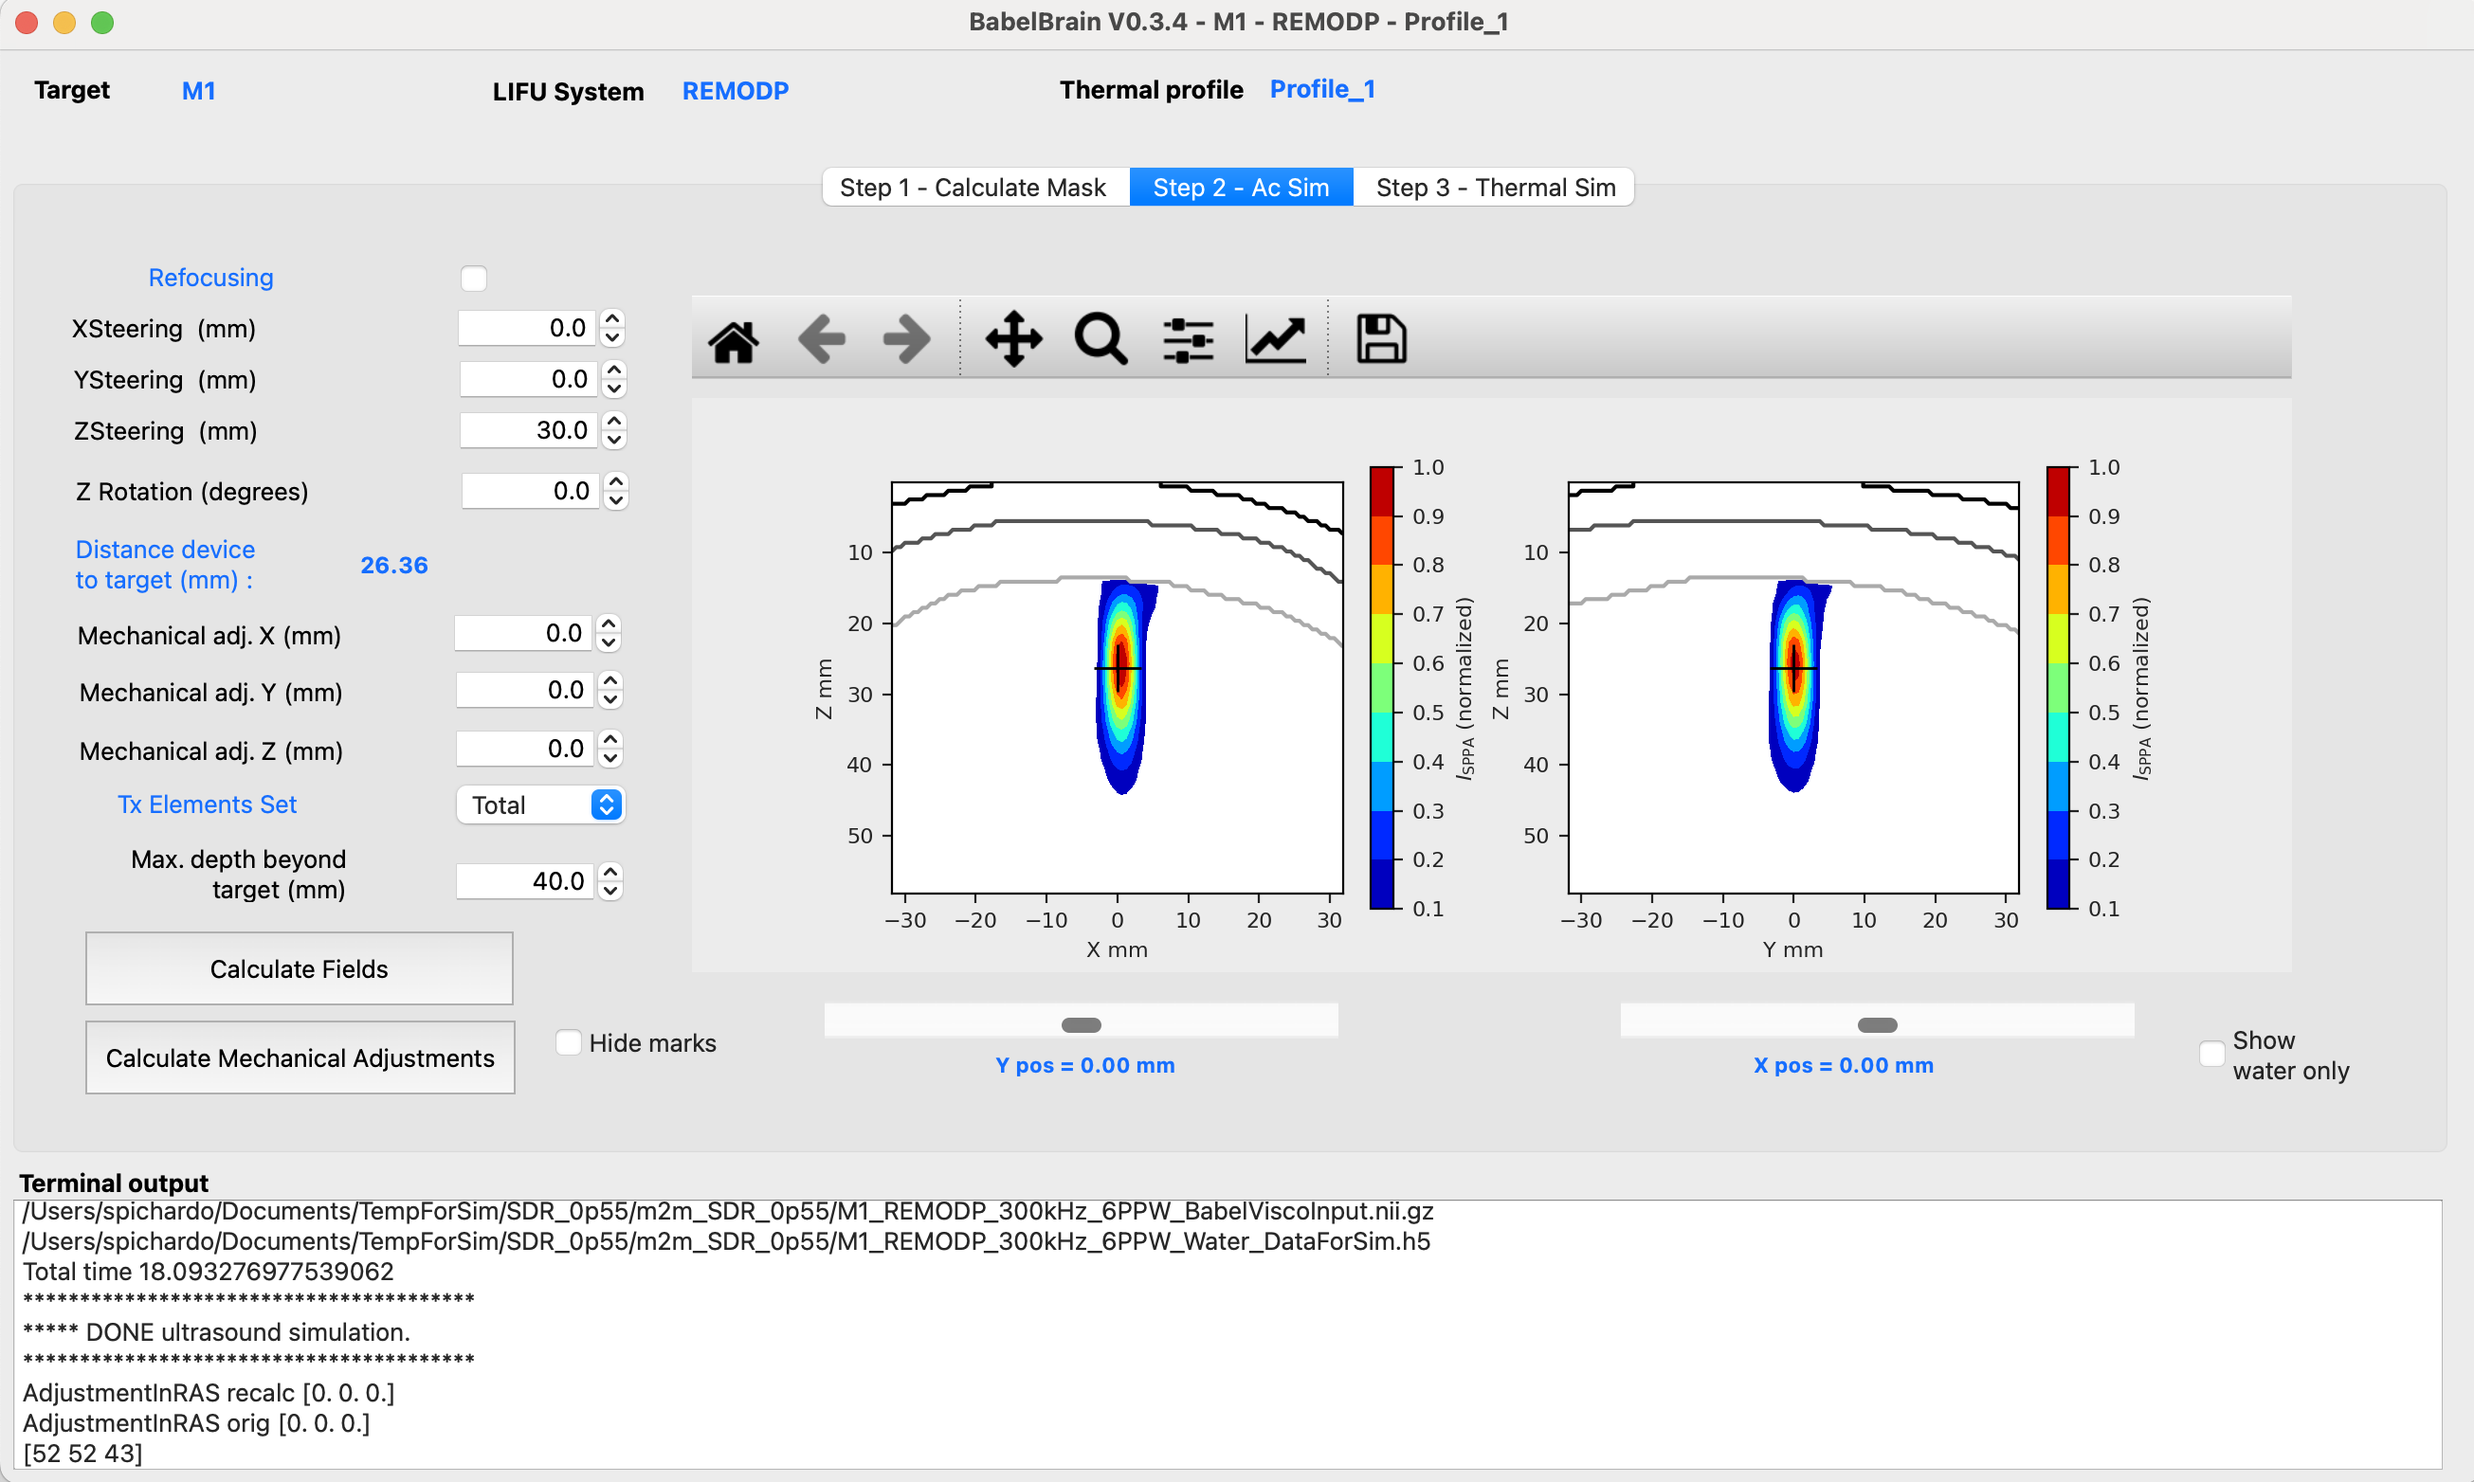
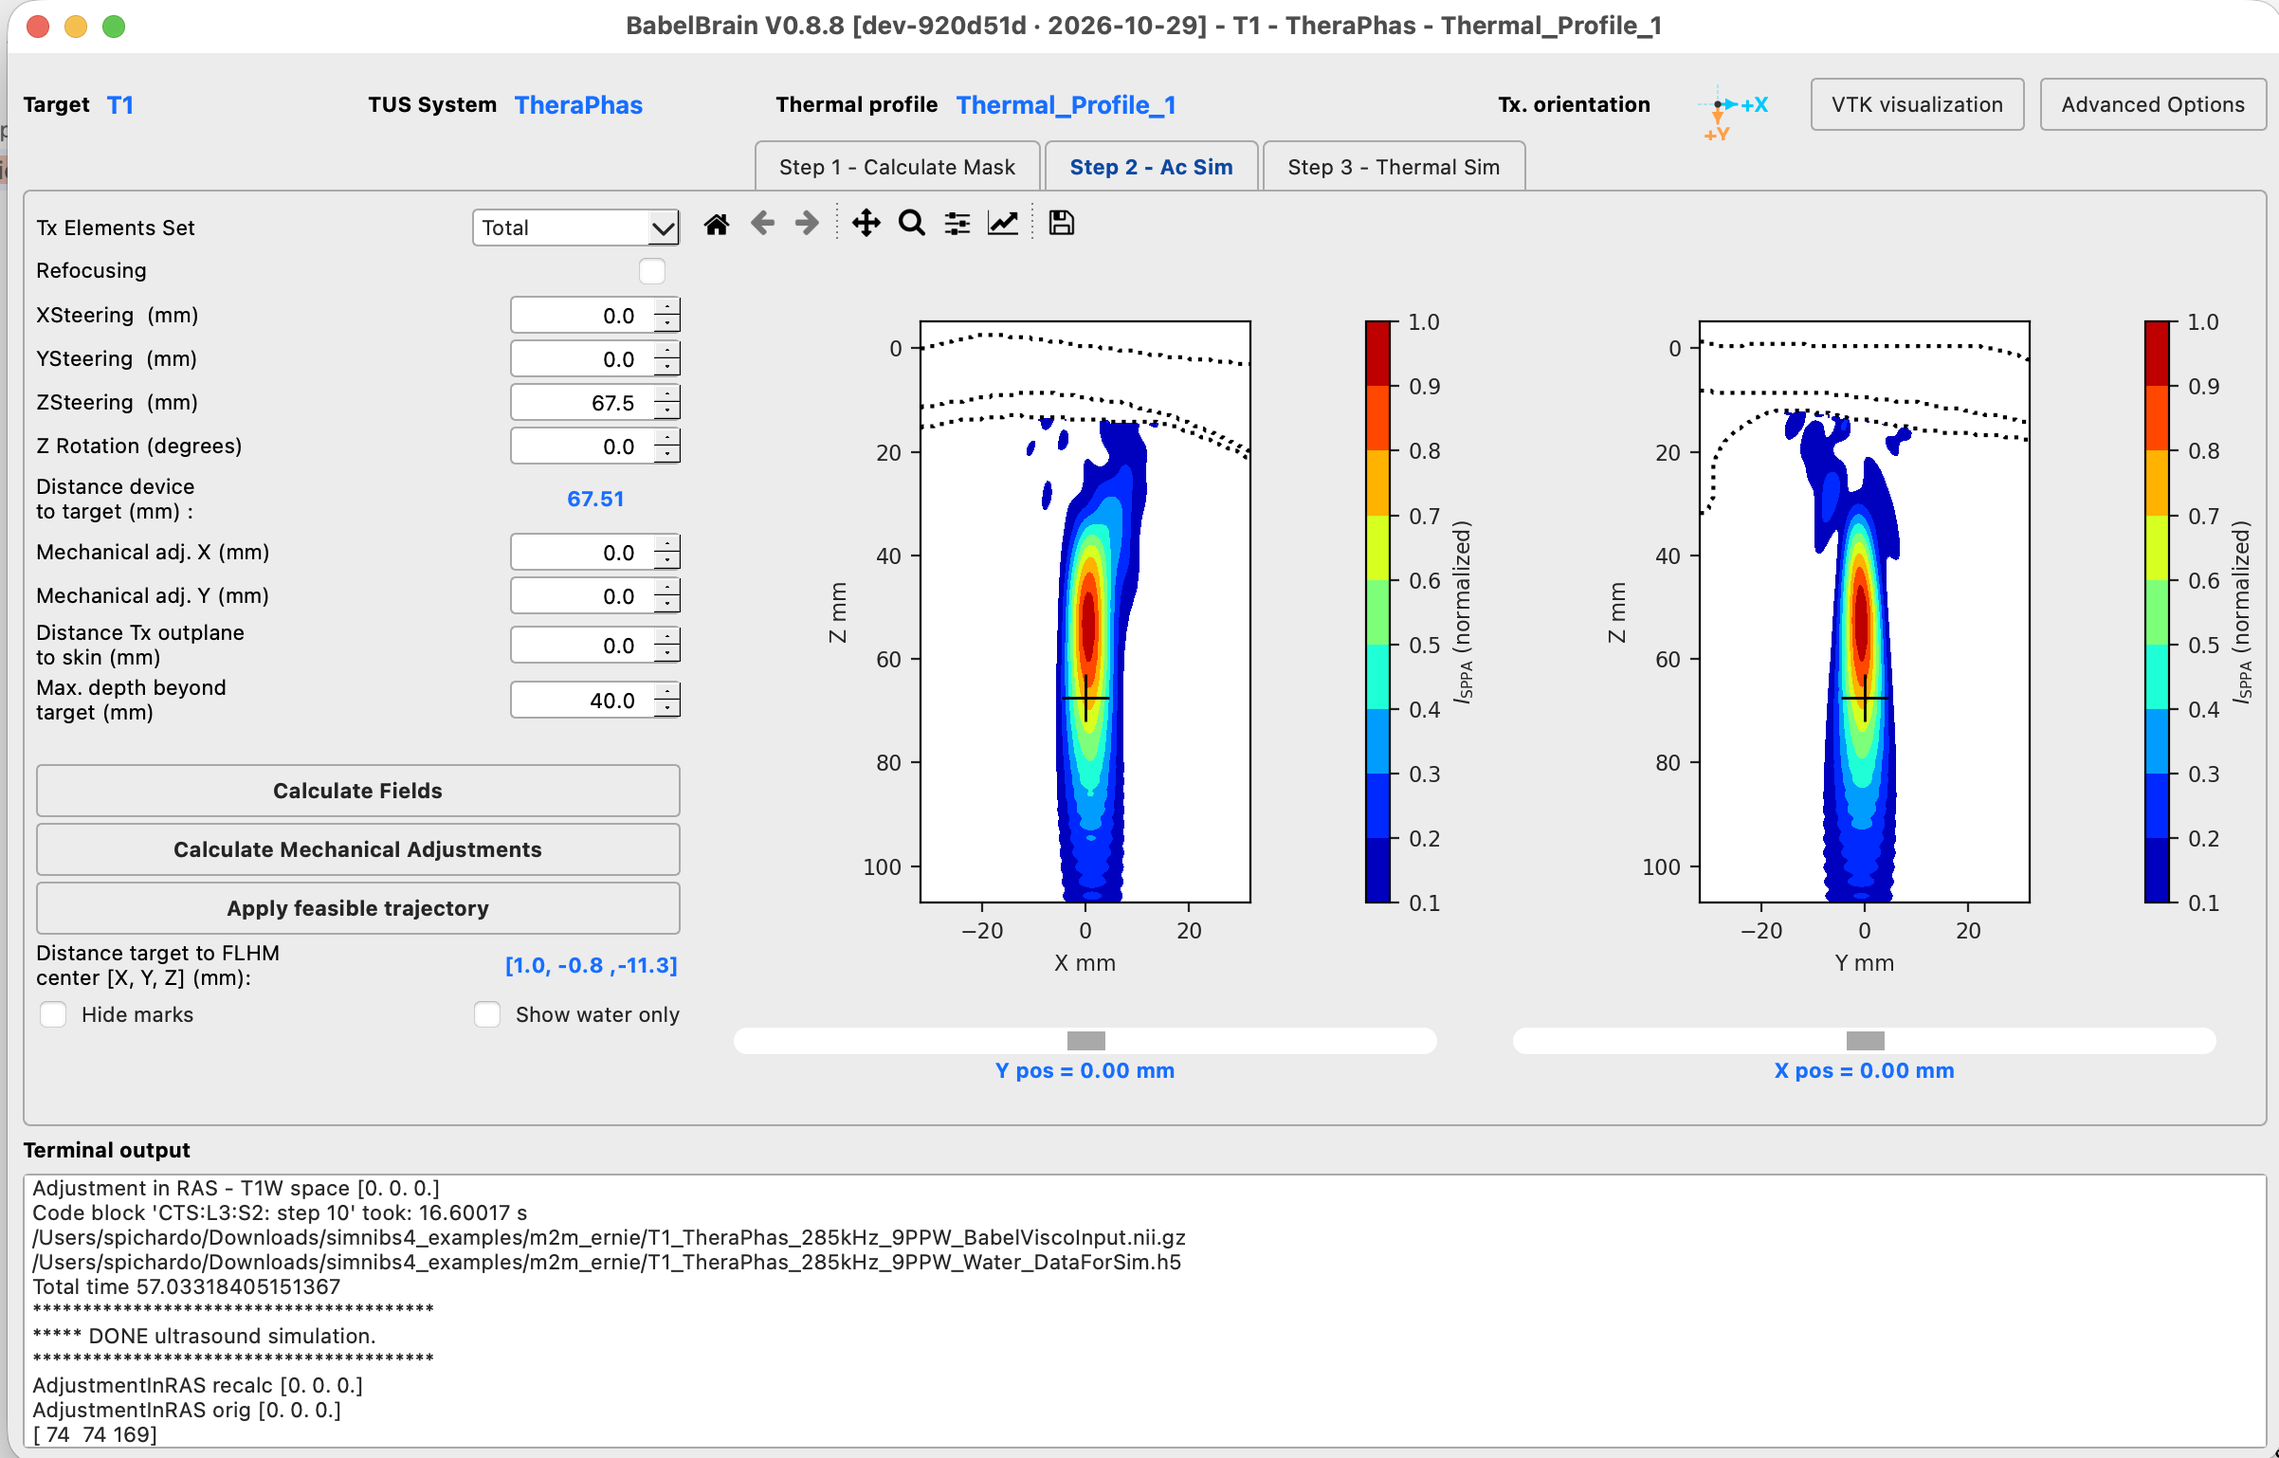
Add sibling-page TOCs to docs sidebar
Zensical only exposes the TOC of the active page, so other pages in a nav section showed only their titles. Add gen_page_tocs.py, which parses each nav page with the configured Markdown extensions and generates overrides/partials/page-tocs.html. nav-item.html now calls that macro to list headings for non-active pages.

The Makefile runs the generator before `serve` and `build`. Also limit toc_depth to 3 in mkdocs.yml.

Docs content updates: rename REMOPD to TheraPhase (with a new image), document the Apply Feasible Trajectory action, and drop numeric prefixes from the headings in results.md.

diff --git a/docs/overrides/partials/nav-item.html b/docs/overrides/partials/nav-item.html
@@ -2,6 +2,8 @@
   BabelBrain override of zensical_ui partials/nav-item.html (zensical 0.0.74).
   Change vs. upstream: only drop the top H1 from the page TOC when it is the
   ONLY H1; pages with several '#' headings keep all of them (and children).
+  Also: non-active pages list their headings too, from the generated
+  partials/page-tocs.html (see gen_page_tocs.py).
 -#}
 {% macro render_status(nav_item, type) %}
   {% set class = "md-status md-status--" ~ type %}
@@ -163,10 +165,13 @@
       {% endif %}
     </li>
   {% else %}
+    {% import "partials/page-tocs.html" as page_tocs %}
     <li class="{{ class }}">
       <a href="{{ nav_item.url | url }}" class="md-nav__link">
         {{ render_content(nav_item) }}
       </a>
+      {#- BabelBrain: also list the headings of non-active pages (generated) -#}
+      {{ page_tocs.render(nav_item.url, nav_item.url | url) }}
     </li>
   {% endif %}
 {% endmacro %}

diff --git a/docs/gen_page_tocs.py b/docs/gen_page_tocs.py
@@ -1,0 +1,126 @@
+"""Generate overrides/partials/page-tocs.html for the BabelBrain docs.
+
+Zensical only gives the theme the table of contents (TOC) of the page being
+viewed, so in the left panel the other pages of a section show just their
+title. This script parses every page listed in `nav` of mkdocs.yml with the
+same Markdown extensions Zensical uses, extracts its headings, and writes a
+Jinja macro with each page's TOC pre-rendered. overrides/partials/nav-item.html
+calls that macro so every page of a section shows its headings.
+
+Run automatically by `make build` / `make serve`; run it by hand
+(`python gen_page_tocs.py`) after editing headings while `make serve` is up.
+"""
+
+import html
+from pathlib import Path
+
+import markdown
+import yaml
+
+ROOT = Path(__file__).resolve().parent
+CONFIG = ROOT / "mkdocs.yml"
+OUTPUT = ROOT / "overrides" / "partials" / "page-tocs.html"
+
+
+class _Loader(yaml.SafeLoader):
+    """SafeLoader that tolerates !!python/name tags sometimes used in mkdocs.yml."""
+
+
+_Loader.add_multi_constructor("tag:yaml.org,2002:python/", lambda *a: None)
+
+
+def nav_files(items):
+    for item in items or []:
+        value = next(iter(item.values())) if isinstance(item, dict) else item
+        if isinstance(value, list):
+            yield from nav_files(value)
+        elif isinstance(value, str) and value.endswith(".md"):
+            yield value
+
+
+def markdown_extensions(config):
+    names, configs = [], {}
+    for ext in config.get("markdown_extensions", []):
+        if isinstance(ext, dict):
+            (name, opts), = ext.items()
+            names.append(name)
+            configs[name] = opts or {}
+        else:
+            names.append(ext)
+    return names, configs
+
+
+def page_url(src, use_directory_urls):
+    stem = src[: -len(".md")]
+    if not use_directory_urls:
+        return stem + ".html"
+    if stem == "index" or stem.endswith("/index"):
+        return stem[: -len("index")]
+    return stem + "/"
+
+
+def text(s):
+    # escape for HTML and neutralise Jinja delimiters
+    return html.escape(html.unescape(s)).replace("{", "&#123;").replace("}", "&#125;")
+
+
+def render_items(tokens, indent="  "):
+    out = []
+    for t in tokens:
+        out.append(f'{indent}<li class="md-nav__item">')
+        out.append(f'{indent}  <a href="{{{{ prefix }}}}#{t["id"]}" class="md-nav__link">'
+                   f'<span class="md-ellipsis"><span class="md-typeset">{text(t["name"])}'
+                   f"</span></span></a>")
+        if t["children"]:
+            out.append(f'{indent}  <nav class="md-nav" aria-label="{text(t["name"])}">')
+            out.append(f'{indent}    <ul class="md-nav__list">')
+            out.extend(render_items(t["children"], indent + "      "))
+            out.append(f"{indent}    </ul>")
+            out.append(f"{indent}  </nav>")
+        out.append(f"{indent}</li>")
+    return out
+
+
+def main():
+    config = yaml.load(CONFIG.read_text(encoding="utf-8"), Loader=_Loader)
+    docs_dir = ROOT / config.get("docs_dir", "docs")
+    use_dir_urls = config.get("use_directory_urls", True)
+    names, configs = markdown_extensions(config)
+
+    blocks = []
+    for src in dict.fromkeys(nav_files(config.get("nav"))):
+        path = docs_dir / src
+        if not path.exists():
+            continue
+        md = markdown.Markdown(extensions=names, extension_configs=configs)
+        md.convert(path.read_text(encoding="utf-8"))
+        toc = md.toc_tokens
+        # same rule as overrides/partials/toc.html: a single top H1 is the
+        # page title, so show its children; several H1s are all kept
+        if len(toc) == 1 and toc[0]["level"] == 1:
+            toc = toc[0]["children"]
+        if not toc:
+            continue
+        key = page_url(src, use_dir_urls)
+        blocks.append((key, render_items(toc, "      ")))
+
+    lines = [
+        "{#- GENERATED by gen_page_tocs.py from mkdocs.yml - do not edit by hand -#}",
+        "{% macro render(key, prefix) %}",
+    ]
+    for i, (key, items) in enumerate(blocks):
+        lines.append(f'{"{% if" if i == 0 else "{% elif"} key == "{key}" %}}')
+        lines.append('  <nav class="md-nav md-nav--secondary md-nav--sibling-toc">')
+        lines.append('    <ul class="md-nav__list">')
+        lines.extend(items)
+        lines.append("    </ul>")
+        lines.append("  </nav>")
+    if blocks:
+        lines.append("{% endif %}")
+    lines.append("{% endmacro %}")
+    OUTPUT.write_text("\n".join(lines) + "\n", encoding="utf-8")
+    print(f"gen_page_tocs: wrote TOCs for {len(blocks)} pages -> {OUTPUT.relative_to(ROOT)}")
+
+
+if __name__ == "__main__":
+    main()

diff --git a/docs/docs/results/results.md b/docs/docs/results/results.md
@@ -2,7 +2,7 @@ Results files
 ----
 Multiple files are generated and will be saved in the same directory where the input T1W file is located. These are the most relevant files.
 
-# 1 - Input mask in Nifti format
+# Input mask in Nifti format
 
 `<Target ID>_<Tx ID>_<Frequency ID>_<PPW ID>_BabelViscoInput.nii.gz`
 
@@ -18,7 +18,7 @@ If a ZTE or real CT scan was indicated as input, the files `<Target ID>_<Tx ID>_
 
 <img src="Results -3.png" height=350px> 
 
-# 2 - Acoustic pressure field results in Nifti format
+# Acoustic pressure field results in Nifti format
 
 `<Target ID>_<Tx ID>_<Frequency ID>_<PPW ID>_FullElasticSolution.nii.gz`
 
@@ -38,7 +38,7 @@ This a sub-domain version with the original simulation resolution, normalized (0
 
 Supplementary Nifti files showing results for benchmarking are also saved. For example results in water-only conditions, including with Rayleigh integral. Water-conditions results are also needed to calculate the required $I_{SPPA}$ value to use to program devices during real experimentations. These acoustic maps should be considered **adimensional** and are mostly used for visualization purposes. 
 
-# 3 - STL files
+# STL files
 BabelBrain will generate STL files of the transducer that will be in T1W coordinates and aligned using the planning and simulation information. 
  If using 'charm' from Simbnibs 4.0, BabelBrain will generate STL files for skin, csf and skull 
 regions (`skin.stl`,`csf.stl`,`bone.stl`) in the directory specified for charm output.
@@ -47,7 +47,7 @@ Below there is an example of visualization of STL files of transducer, skin and 
 
 <img src="Results -1.png" height=550px>
 
-# 2 - Thermal and intensity maps:
+# Thermal and intensity maps:
 `<Target ID>_<Tx ID>_<Frequency ID>_<PPW ID>_DataForSim-ThermalField-<Timming IDs>.h5` 
 
 For example:

diff --git a/docs/docs/pipeline/BabelBrain.md b/docs/docs/pipeline/BabelBrain.md
@@ -193,10 +193,13 @@ These transducers assume that a coupling cone is in contact with the skin. The u
 <img src="Simulation-10.png" height=450px>
 
 
-####  REMOPD
-This transducer is a flat device that shows features that combine functionalities similar to the H246 and phased arrays.
+####  TheraPhase
+This transducer from IBMT-Franhaufer is a flat device that shows features that combine functionalities similar to the H246 and phased arrays.
 
 <img src="Simulation-14.png" height=450px>
+
+### Apply Feasible Trajectory
+Starting with v0.8.8, when using phased arrays for Brainsight and Slicer trajectories, we added an extra action to calculate mechanical and steering conditions when a second trajectory is provided. This second trajectory is intended to describe the **feasible** position of device - for example, if the ear is blocking the straight trajectory to the real intended target, the device needs to be placed a bit off. This second trajectory can be now provided and BabelBrain will calculate the initial steering and mechanical displacement conditions that match that feasible position.
 
 ## STEP 3 - Thermal simulation
 The third tab in the GUI of BabelBrain shows the thermal simulation step.  The diagram below shows a flowchart of this step.
